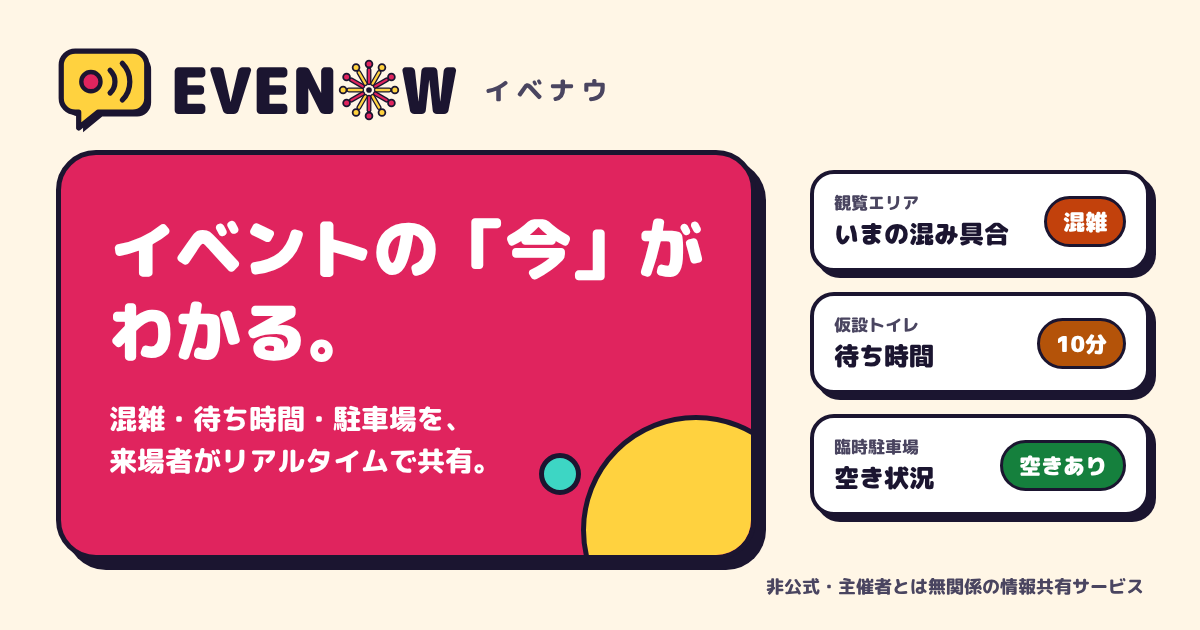
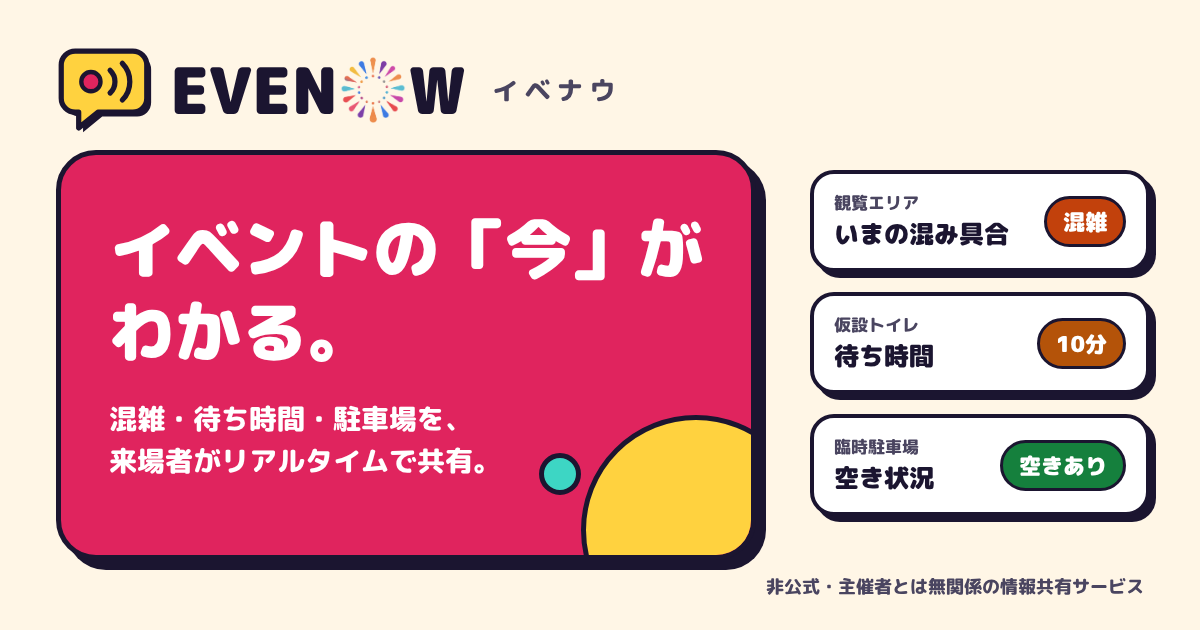
ロゴの「O」を指定の花火画像（背景を抜いたもの）に差し替え
- 選んだ花火の画像（しずく形の光＋内側の火の粉）の白い背景を透明にして public/brand/spark-o.png に
  ふちだけ白を抜き、色の中身はそのまま残す
- フッターのロゴと、SNS共有用の画像（public/og.png）の O をこの画像に

Claude-Session: https://claude.ai/code/session_01WDVXgLvqwFEBangxaAmV5d

Changed region(s): [[0.2775, 0.0905, 0.5242, 0.2111]]

diff --git a/docs/og-image.html b/docs/og-image.html
@@ -18,7 +18,7 @@
 <div class="og">
   <div style="display:flex;align-items:center;gap:18px">
     <svg width="96" height="91" viewBox="0 0 110 104"><path d="M22 8h66a16 16 0 0 1 16 16v38a16 16 0 0 1-16 16H48L26 96V78h-4A16 16 0 0 1 6 62V24A16 16 0 0 1 22 8z" fill="#1b1530" transform="translate(5 5)"/><path d="M22 8h66a16 16 0 0 1 16 16v38a16 16 0 0 1-16 16H48L26 96V78h-4A16 16 0 0 1 6 62V24A16 16 0 0 1 22 8z" fill="#ffd23f" stroke="#1b1530" stroke-width="6" stroke-linejoin="round"/><circle cx="40" cy="43" r="11" fill="#e0245e" stroke="#1b1530" stroke-width="5"/><path d="M62 30a18 18 0 0 1 0 26M76 22a30 30 0 0 1 0 42" fill="none" stroke="#1b1530" stroke-width="6" stroke-linecap="round"/></svg>
-    <div style="display:flex;align-items:center;font-weight:900;font-size:64px;line-height:1">EVEN<svg width="68" height="68" viewBox="0 0 84 84" style="margin:0 -3px"><line x1="42.0" y1="33.0" x2="42.0" y2="17.0" stroke="#1b1530" stroke-width="6" stroke-linecap="round"/><line x1="42.0" y1="33.0" x2="42.0" y2="17.0" stroke="#e0245e" stroke-width="2.8" stroke-linecap="round"/><circle cx="42.0" cy="10.0" r="4.2" fill="#e0245e" stroke="#1b1530" stroke-width="2.2"/><line x1="46.5" y1="34.2" x2="54.5" y2="20.3" stroke="#1b1530" stroke-width="6" stroke-linecap="round"/><line x1="46.5" y1="34.2" x2="54.5" y2="20.3" stroke="#ffd23f" stroke-width="2.8" stroke-linecap="round"/><circle cx="58.0" cy="14.3" r="4.2" fill="#ffd23f" stroke="#1b1530" stroke-width="2.2"/><line x1="49.8" y1="37.5" x2="63.7" y2="29.5" stroke="#1b1530" stroke-width="6" stroke-linecap="round"/><line x1="49.8" y1="37.5" x2="63.7" y2="29.5" stroke="#e0245e" stroke-width="2.8" stroke-linecap="round"/><circle cx="69.7" cy="26.0" r="4.2" fill="#e0245e" stroke="#1b1530" stroke-width="2.2"/><line x1="51.0" y1="42.0" x2="67.0" y2="42.0" stroke="#1b1530" stroke-width="6" stroke-linecap="round"/><line x1="51.0" y1="42.0" x2="67.0" y2="42.0" stroke="#ffd23f" stroke-width="2.8" stroke-linecap="round"/><circle cx="74.0" cy="42.0" r="4.2" fill="#ffd23f" stroke="#1b1530" stroke-width="2.2"/><line x1="49.8" y1="46.5" x2="63.7" y2="54.5" stroke="#1b1530" stroke-width="6" stroke-linecap="round"/><line x1="49.8" y1="46.5" x2="63.7" y2="54.5" stroke="#e0245e" stroke-width="2.8" stroke-linecap="round"/><circle cx="69.7" cy="58.0" r="4.2" fill="#e0245e" stroke="#1b1530" stroke-width="2.2"/><line x1="46.5" y1="49.8" x2="54.5" y2="63.7" stroke="#1b1530" stroke-width="6" stroke-linecap="round"/><line x1="46.5" y1="49.8" x2="54.5" y2="63.7" stroke="#ffd23f" stroke-width="2.8" stroke-linecap="round"/><circle cx="58.0" cy="69.7" r="4.2" fill="#ffd23f" stroke="#1b1530" stroke-width="2.2"/><line x1="42.0" y1="51.0" x2="42.0" y2="67.0" stroke="#1b1530" stroke-width="6" stroke-linecap="round"/><line x1="42.0" y1="51.0" x2="42.0" y2="67.0" stroke="#e0245e" stroke-width="2.8" stroke-linecap="round"/><circle cx="42.0" cy="74.0" r="4.2" fill="#e0245e" stroke="#1b1530" stroke-width="2.2"/><line x1="37.5" y1="49.8" x2="29.5" y2="63.7" stroke="#1b1530" stroke-width="6" stroke-linecap="round"/><line x1="37.5" y1="49.8" x2="29.5" y2="63.7" stroke="#ffd23f" stroke-width="2.8" stroke-linecap="round"/><circle cx="26.0" cy="69.7" r="4.2" fill="#ffd23f" stroke="#1b1530" stroke-width="2.2"/><line x1="34.2" y1="46.5" x2="20.3" y2="54.5" stroke="#1b1530" stroke-width="6" stroke-linecap="round"/><line x1="34.2" y1="46.5" x2="20.3" y2="54.5" stroke="#e0245e" stroke-width="2.8" stroke-linecap="round"/><circle cx="14.3" cy="58.0" r="4.2" fill="#e0245e" stroke="#1b1530" stroke-width="2.2"/><line x1="33.0" y1="42.0" x2="17.0" y2="42.0" stroke="#1b1530" stroke-width="6" stroke-linecap="round"/><line x1="33.0" y1="42.0" x2="17.0" y2="42.0" stroke="#ffd23f" stroke-width="2.8" stroke-linecap="round"/><circle cx="10.0" cy="42.0" r="4.2" fill="#ffd23f" stroke="#1b1530" stroke-width="2.2"/><line x1="34.2" y1="37.5" x2="20.3" y2="29.5" stroke="#1b1530" stroke-width="6" stroke-linecap="round"/><line x1="34.2" y1="37.5" x2="20.3" y2="29.5" stroke="#e0245e" stroke-width="2.8" stroke-linecap="round"/><circle cx="14.3" cy="26.0" r="4.2" fill="#e0245e" stroke="#1b1530" stroke-width="2.2"/><line x1="37.5" y1="34.2" x2="29.5" y2="20.3" stroke="#1b1530" stroke-width="6" stroke-linecap="round"/><line x1="37.5" y1="34.2" x2="29.5" y2="20.3" stroke="#ffd23f" stroke-width="2.8" stroke-linecap="round"/><circle cx="26.0" cy="14.3" r="4.2" fill="#ffd23f" stroke="#1b1530" stroke-width="2.2"/><circle cx="42" cy="42" r="3.5" fill="#1b1530"/></svg>W</div>
+    <div style="display:flex;align-items:center;font-weight:900;font-size:64px;line-height:1">EVEN<img src="../public/brand/spark-o.png" width="66" height="66" alt="" style="margin:0 2px">W</div>
     <div style="font-weight:800;font-size:26px;color:#4a4560;letter-spacing:.25em;margin-left:8px">イベナウ</div>
   </div>
   <div class="card"><div class="sun"></div><div class="dot"></div>

diff --git a/components/Logo.tsx b/components/Logo.tsx
@@ -1,7 +1,7 @@
 /**
  * EVENOW ロゴ（MIX-A）
  * - BubbleMark: 吹き出しマーク。ヘッダーなど小さいサイズ用（中は点のみ）
- * - LogoLockup: 吹き出し（点＋電波）＋「EVEN✺W」（O が花火：光の筋と火の粉）のフルロゴ
+ * - LogoLockup: 吹き出し（点＋電波）＋「EVEN✺W」（O が花火）のフルロゴ
  */
 const BUBBLE = 'M22 8h66a16 16 0 0 1 16 16v38a16 16 0 0 1-16 16H48L26 96V78h-4A16 16 0 0 1 6 62V24A16 16 0 0 1 22 8z';
 const INK = '#1b1530';
@@ -18,27 +18,13 @@ export function BubbleMark({ size = 32 }: { size?: number }) {
 }
 
 /**
- * 「NOW」の O（花火）。中心から光の筋が伸び、先に火の粉が付く。ピンクと黄色が交互。
- * 小さいサイズ（40px未満）では筋を減らして潰れないようにする。
+ * 「NOW」の O（花火）。画像は public/brand/spark-o.png（背景を抜いた PNG）。
  */
 function SparkO({ size }: { size: number }) {
-  const n = size < 40 ? 8 : 12;
-  const rays = Array.from({ length: n }, (_, i) => {
-    const a = -Math.PI / 2 + (2 * Math.PI * i) / n;
-    const at = (r: number) => [42 + r * Math.cos(a), 42 + r * Math.sin(a)].map((v) => Math.round(v * 10) / 10);
-    return { from: at(9), to: at(25), dot: at(32), color: i % 2 ? YELLOW : PINK };
-  });
   return (
-    <svg aria-hidden width={size} height={size} viewBox="0 0 84 84" style={{ margin: `0 ${-size * 0.045}px`, flex: 'none' }}>
-      {rays.map((r, i) => (
-        <g key={i}>
-          <line x1={r.from[0]} y1={r.from[1]} x2={r.to[0]} y2={r.to[1]} stroke={INK} strokeWidth="6" strokeLinecap="round" />
-          <line x1={r.from[0]} y1={r.from[1]} x2={r.to[0]} y2={r.to[1]} stroke={r.color} strokeWidth="2.8" strokeLinecap="round" />
-          <circle cx={r.dot[0]} cy={r.dot[1]} r="4.2" fill={r.color} stroke={INK} strokeWidth="2.2" />
-        </g>
-      ))}
-      <circle cx="42" cy="42" r="3.5" fill={INK} />
-    </svg>
+    // eslint-disable-next-line @next/next/no-img-element
+    <img src="/brand/spark-o.png" alt="" aria-hidden width={size} height={size}
+      style={{ width: size, height: size, margin: `0 ${size * 0.02}px`, flex: 'none', display: 'block' }} />
   );
 }
 
